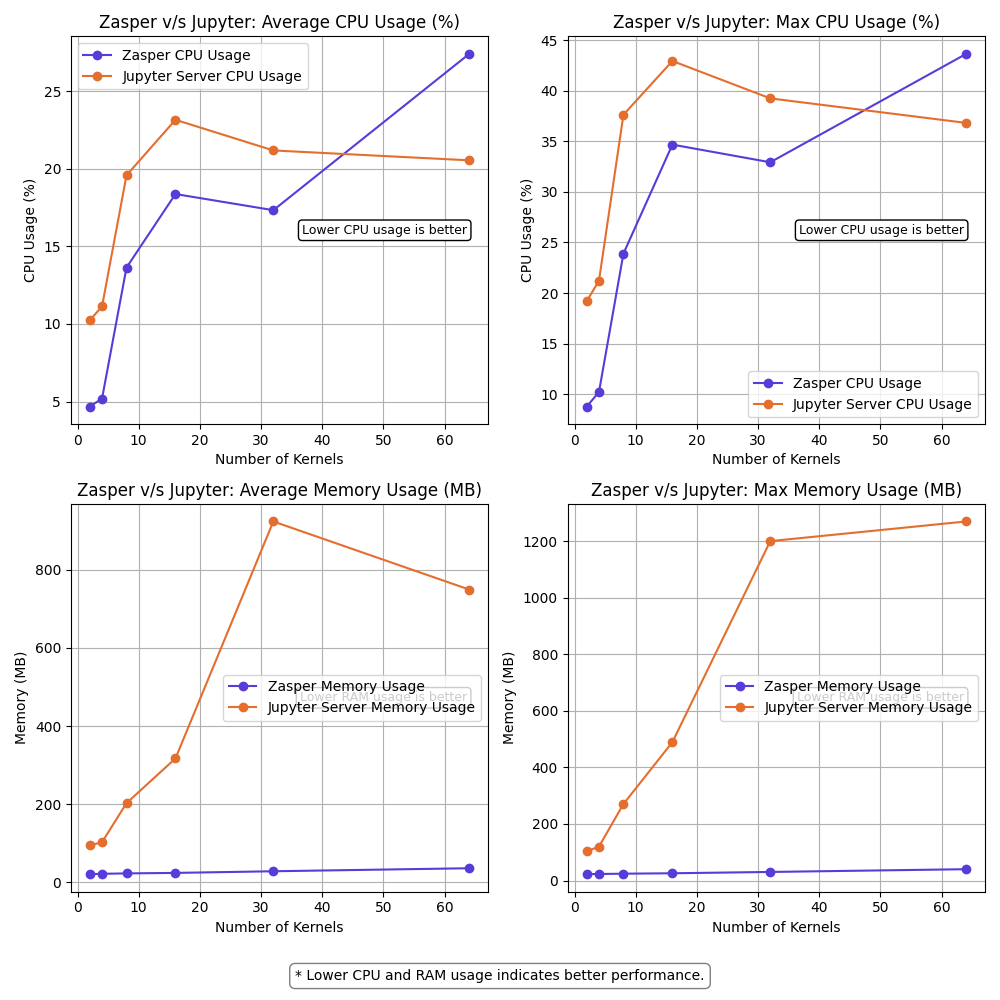
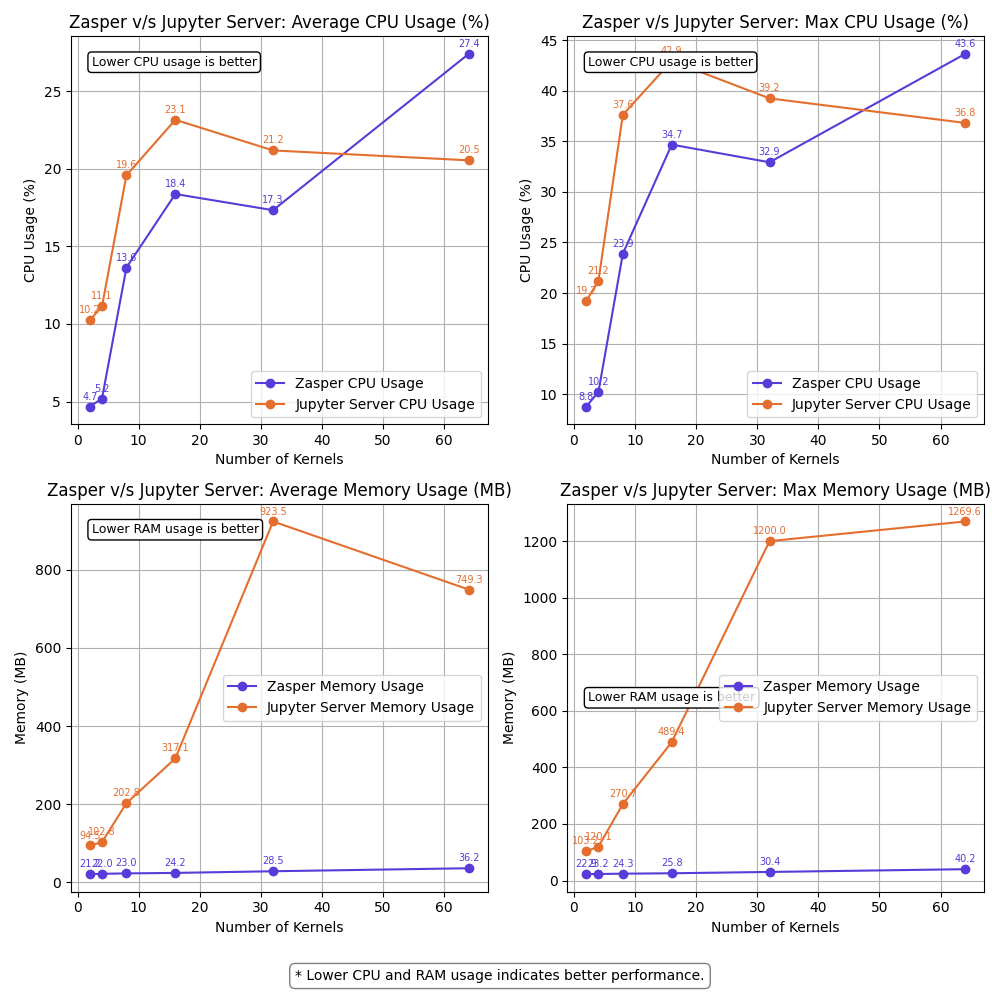
label the points

diff --git a/visualize_resources_summary.py b/visualize_resources_summary.py
@@ -23,6 +23,10 @@ avg_mems_jupyter = []
 max_cpus_jupyter = []
 max_mems_jupyter = []
 
+def label_points(ax, x, y, color):
+    for xi, yi in zip(x, y):
+        ax.annotate(f"{yi:.1f}", (xi, yi), textcoords="offset points", xytext=(0,5), ha='center', fontsize=7, color=color)
+
 # Define helper to add annotation
 def add_note(ax, text, position='upper right'):
     positions = {
@@ -76,40 +80,48 @@ fig, ((ax1, ax2), (ax3, ax4)) = plt.subplots(2, 2, figsize=(10, 10))
 # 1. CPU Usage
 ax1.plot(kernel_counts, avg_cpus_zasper, label="Zasper CPU Usage", marker='o', color='#583BD8')
 ax1.plot(kernel_counts, avg_cpus_jupyter, label="Jupyter Server CPU Usage", marker='o', color='#E46E2E')
-ax1.set_title('Zasper v/s Jupyter: Average CPU Usage (%)')
+label_points(ax1, kernel_counts, avg_cpus_zasper, '#583BD8')
+label_points(ax1, kernel_counts, avg_cpus_jupyter, '#E46E2E')
+ax1.set_title('Zasper v/s Jupyter Server: Average CPU Usage (%)')
 ax1.set_xlabel('Number of Kernels')
 ax1.set_ylabel('CPU Usage (%)')
 ax1.legend()
 ax1.grid(True)
-add_note(ax1, "Lower CPU usage is better", position='center right')
+add_note(ax1, "Lower CPU usage is better", position='upper left')
 
 ax2.plot(kernel_counts, max_cpus_zasper, label="Zasper CPU Usage", marker='o', color='#583BD8')
 ax2.plot(kernel_counts, max_cpus_jupyter, label="Jupyter Server CPU Usage", marker='o', color='#E46E2E')
-ax2.set_title('Zasper v/s Jupyter: Max CPU Usage (%)')
+label_points(ax2, kernel_counts, max_cpus_zasper, '#583BD8')
+label_points(ax2, kernel_counts, max_cpus_jupyter, '#E46E2E')
+ax2.set_title('Zasper v/s Jupyter Server: Max CPU Usage (%)')
 ax2.set_xlabel('Number of Kernels')
 ax2.set_ylabel('CPU Usage (%)')
 ax2.legend()
 ax2.grid(True)
-add_note(ax2, "Lower CPU usage is better", position='center right')
+add_note(ax2, "Lower CPU usage is better", position='upper left')
 
 # 2. RAM Usage
 ax3.plot(kernel_counts, avg_mems_zasper, label="Zasper Memory Usage", marker='o', color='#583BD8')
 ax3.plot(kernel_counts, avg_mems_jupyter, label="Jupyter Server Memory Usage", marker='o', color='#E46E2E')
-ax3.set_title('Zasper v/s Jupyter: Average Memory Usage (MB)')
+label_points(ax3, kernel_counts, avg_mems_zasper, '#583BD8')
+label_points(ax3, kernel_counts, avg_mems_jupyter, '#E46E2E')
+ax3.set_title('Zasper v/s Jupyter Server: Average Memory Usage (MB)')
 ax3.set_xlabel('Number of Kernels')
 ax3.set_ylabel('Memory (MB)')
 ax3.legend()
 ax3.grid(True)
-add_note(ax3, "Lower RAM usage is better", position='center right')
+add_note(ax3, "Lower RAM usage is better", position='upper left')
 
 ax4.plot(kernel_counts, max_mems_zasper, label="Zasper Memory Usage", marker='o', color='#583BD8')
 ax4.plot(kernel_counts, max_mems_jupyter, label="Jupyter Server Memory Usage", marker='o', color='#E46E2E')
-ax4.set_title('Zasper v/s Jupyter: Max Memory Usage (MB)')
+label_points(ax4, kernel_counts, max_mems_zasper, '#583BD8')
+label_points(ax4, kernel_counts, max_mems_jupyter, '#E46E2E')
+ax4.set_title('Zasper v/s Jupyter Server: Max Memory Usage (MB)')
 ax4.set_xlabel('Number of Kernels')
 ax4.set_ylabel('Memory (MB)')
-ax4.legend()
 ax4.grid(True)
-add_note(ax4, "Lower RAM usage is better", position='center right')
+add_note(ax4, "Lower RAM usage is better", position='center left')
+ax4.legend()
 
 
 fig.text(
